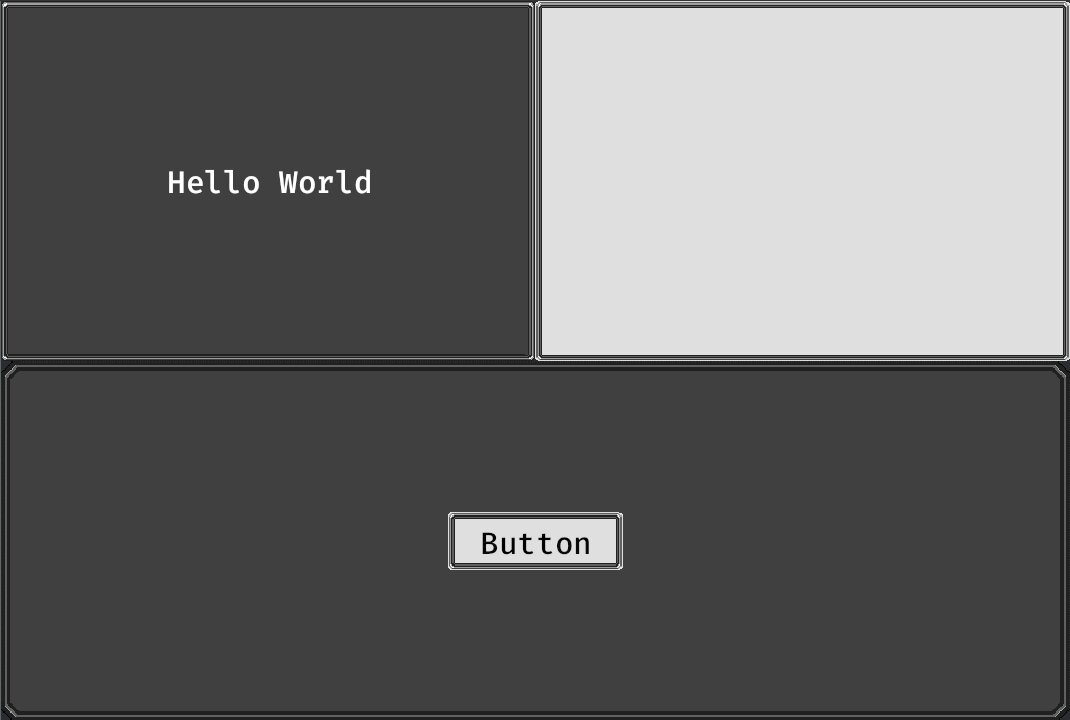
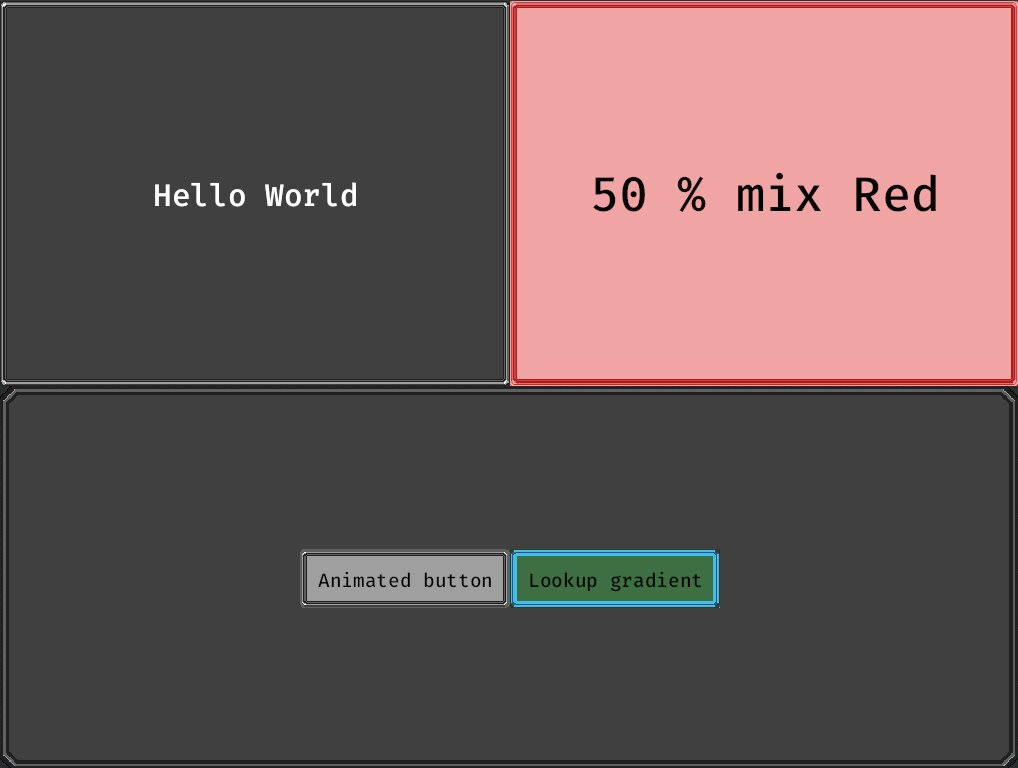
blend colors and lookup gradients added

diff --git a/examples/ui.rs b/examples/ui.rs
@@ -53,7 +53,9 @@ fn setup(mut cmd: Commands, server: Res<AssetServer>) {
                             align_items: AlignItems::Center,
                             ..default()
                         },
-                        nine_slice_texture: NineSliceTexture::from_image(server.load("panel.png")),
+                        nine_slice_texture: NineSliceUiTexture::from_image(
+                            server.load("panel.png"),
+                        ),
                         ..default()
                     })
                     .with_children(|builder| {
@@ -76,15 +78,34 @@ fn setup(mut cmd: Commands, server: Res<AssetServer>) {
                             width: Val::Percent(50.),
                             height: Val::Percent(100.),
                             display: Display::Flex,
+                            justify_content: JustifyContent::Center,
+                            align_items: AlignItems::Center,
                             ..default()
                         },
                         background_color: Color::BLACK.into(),
                         ..default()
                     })
-                    .insert(NineSliceTexture::from_slice(
-                        server.load("panel_atlas.png"),
-                        Rect::new(0., 0., 32., 32.),
-                    ));
+                    .insert(
+                        NineSliceUiTexture::from_slice(
+                            server.load("panel_atlas.png"),
+                            Rect::new(0., 0., 32., 32.),
+                        )
+                        .with_blend_color(Color::RED)
+                        .with_blend_mix(0.5),
+                    )
+                    .with_children(|builder| {
+                        builder.spawn(TextBundle {
+                            text: Text::from_section(
+                                "50 % mix Red",
+                                TextStyle {
+                                    font_size: 50.,
+                                    color: Color::BLACK,
+                                    ..default()
+                                },
+                            ),
+                            ..default()
+                        });
+                    });
             });
 
         builder
@@ -97,7 +118,7 @@ fn setup(mut cmd: Commands, server: Res<AssetServer>) {
                     align_items: AlignItems::Center,
                     ..default()
                 },
-                nine_slice_texture: NineSliceTexture::from_slice(
+                nine_slice_texture: NineSliceUiTexture::from_slice(
                     server.load("panel_atlas.png"),
                     Rect::new(32., 0., 32. + 48., 48.),
                 ),
@@ -107,7 +128,7 @@ fn setup(mut cmd: Commands, server: Res<AssetServer>) {
                 builder
                     .spawn(ButtonBundle {
                         style: Style {
-                            width: Val::Px(150.),
+                            width: Val::Px(180.),
                             height: Val::Px(50.),
                             display: Display::Flex,
                             justify_content: JustifyContent::Center,
@@ -117,16 +138,49 @@ fn setup(mut cmd: Commands, server: Res<AssetServer>) {
                         ..default()
                     })
                     .insert(Animation(0))
-                    .insert(NineSliceTexture::from_slice(
+                    .insert(NineSliceUiTexture::from_slice(
                         server.load("panel_animation.png"),
                         Rect::new(0., 0., 32., 32.),
                     ))
                     .with_children(|builder| {
                         builder.spawn(TextBundle {
                             text: Text::from_section(
-                                "Button",
+                                "Animated button",
                                 TextStyle {
-                                    font_size: 32.,
+                                    font_size: 20.,
+                                    color: Color::BLACK,
+                                    ..default()
+                                },
+                            ),
+                            ..default()
+                        });
+                    });
+                builder
+                    .spawn(ButtonBundle {
+                        style: Style {
+                            width: Val::Px(180.),
+                            height: Val::Px(50.),
+                            display: Display::Flex,
+                            justify_content: JustifyContent::Center,
+                            align_items: AlignItems::Center,
+                            ..default()
+                        },
+                        ..default()
+                    })
+                    .insert(
+                        NineSliceUiTexture::from_slice(
+                            server.load("panel_animation.png"),
+                            Rect::new(0., 0., 32., 32.),
+                        )
+                        .with_lookup_gradient(server.load("4-color-palette.png"))
+                        .with_gradient_mix(1.0),
+                    )
+                    .with_children(|builder| {
+                        builder.spawn(TextBundle {
+                            text: Text::from_section(
+                                "Lookup gradient",
+                                TextStyle {
+                                    font_size: 20.,
                                     color: Color::BLACK,
                                     ..default()
                                 },
@@ -139,15 +193,13 @@ fn setup(mut cmd: Commands, server: Res<AssetServer>) {
     cmd.spawn(Camera2dBundle::default());
 }
 
-fn super_simple_animation(mut query: Query<( &mut NineSliceTexture, &mut Animation )>) {
-    query.iter_mut().for_each(|( mut nine_slice, mut frame )| {
+fn super_simple_animation(mut query: Query<(&mut NineSliceUiTexture, &mut Animation)>) {
+    query.iter_mut().for_each(|(mut nine_slice, mut frame)| {
         match &mut nine_slice.bounds {
             Some(bounds) => {
-
                 bounds.min.x = frame.0 as f32 * 32.;
                 bounds.max.x = 32. + frame.0 as f32 * 32.;
                 frame.0 = (frame.0 + 1) % 4;
-
             }
             None => (),
         };

diff --git a/src/lib.rs b/src/lib.rs
@@ -8,7 +8,7 @@ use bevy::{
 };
 
 pub mod prelude {
-    pub use crate::{NineSliceMaterial, NineSliceTexture, NineSliceUiPlugin};
+    pub use crate::{NineSliceMaterial, NineSliceUiTexture, NineSliceUiPlugin};
 }
 
 pub struct NineSliceUiPlugin {
@@ -45,7 +45,7 @@ pub struct NineSliceUiMaterialBundle {
     /// In some cases these styles also affect how the node drawn/painted.
     pub style: Style,
     /// The nine slice component
-    pub nine_slice_texture: NineSliceTexture,
+    pub nine_slice_texture: NineSliceUiTexture,
     /// Whether this node should block interaction with lower nodes
     pub focus_policy: FocusPolicy,
     // pub background_color: BackgroundColor,
@@ -74,7 +74,7 @@ impl Default for NineSliceUiMaterialBundle {
         Self {
             node: Default::default(),
             style: Default::default(),
-            nine_slice_texture: NineSliceTexture::from_image(Handle::default()),
+            nine_slice_texture: NineSliceUiTexture::from_image(Handle::default()),
             focus_policy: Default::default(),
             transform: Default::default(),
             global_transform: Default::default(),
@@ -87,7 +87,7 @@ impl Default for NineSliceUiMaterialBundle {
 }
 
 fn sync_nine_slice(
-    nodes: Query<(&Node, &NineSliceTexture, &Handle<NineSliceMaterial>)>,
+    nodes: Query<(&Node, &NineSliceUiTexture, &Handle<NineSliceMaterial>)>,
     images: Res<Assets<Image>>,
     mut materials: ResMut<Assets<NineSliceMaterial>>,
 ) {
@@ -106,16 +106,23 @@ fn sync_nine_slice(
             mat.bounds.y = bounds.min.y;
             mat.bounds.z = bounds.max.x;
             mat.bounds.w = bounds.max.y;
+            mat.blend_color = nine_slice.blend_color.into();
+            mat.mix.x = nine_slice.blend_mix;
+            mat.mix.y = nine_slice.gradient_mix;
 
             if mat.atlas != nine_slice.atlas {
                 mat.atlas = nine_slice.atlas.clone();
+            }
+
+            if mat.lookup_gradient != nine_slice.gradient {
+                mat.lookup_gradient = nine_slice.gradient.clone();
             }
         }
     });
 }
 
 fn spawn_nine_slice(
-    nodes: Query<(Entity, &NineSliceTexture, &Node), Without<Handle<NineSliceMaterial>>>,
+    nodes: Query<(Entity, &NineSliceUiTexture, &Node), Without<Handle<NineSliceMaterial>>>,
     images: Res<Assets<Image>>,
     mut cmd: Commands,
     mut materials: ResMut<Assets<NineSliceMaterial>>,
@@ -134,6 +141,9 @@ fn spawn_nine_slice(
             atlas: nine_slice.atlas.clone(),
             surface_size: node.size().extend(0.).extend(0.),
             bounds: Vec4::new(bounds.min.x, bounds.min.y, bounds.max.x, bounds.max.y),
+            blend_color: nine_slice.blend_color.into(),
+            lookup_gradient: nine_slice.gradient.clone(),
+            mix: Vec4::new(nine_slice.blend_mix, nine_slice.gradient_mix, 0., 0.),
         });
 
         cmd.entity(entity)
@@ -142,18 +152,32 @@ fn spawn_nine_slice(
     });
 }
 
+/// A component that describes a nine slice texture
 #[derive(Component, Debug, Clone)]
-pub struct NineSliceTexture {
+pub struct NineSliceUiTexture {
+    /// The atlas to use for the nine slice
     pub atlas: Handle<Image>,
+    /// The bounds of the nine slice in the atlas
     pub bounds: Option<Rect>,
+    /// The color to blend the nine slice with, alpha is used for blending
+    pub blend_color: Color,
+    pub blend_mix: f32,
+    /// A 1D texture to use as color lookup, the grayscale value of the original color is used as UV
+    /// dark to light, left to right
+    pub gradient: Handle<Image>,
+    pub gradient_mix: f32,
 }
 
-impl NineSliceTexture {
+impl NineSliceUiTexture {
     /// Create a new NineSliceTexture from an image
     pub fn from_image(image: Handle<Image>) -> Self {
         Self {
             atlas: image,
             bounds: None,
+            blend_color: Color::default(),
+            blend_mix: 0.0,
+            gradient: Handle::default(),
+            gradient_mix: 0.0,
         }
     }
 
@@ -162,7 +186,31 @@ impl NineSliceTexture {
         Self {
             atlas,
             bounds: Some(bounds),
+            blend_color: Color::default(),
+            blend_mix: 0.0,
+            gradient: Handle::default(),
+            gradient_mix: 0.0,
         }
+    }
+
+    pub fn with_lookup_gradient(mut self, gradiant: Handle<Image>) -> Self {
+        self.gradient = gradiant;
+        self
+    }
+
+    pub fn with_blend_mix(mut self, blend: f32) -> Self {
+        self.blend_mix = blend;
+        self
+    }
+
+    pub fn with_gradient_mix(mut self, blend: f32) -> Self {
+        self.gradient_mix = blend;
+        self
+    }
+
+    pub fn with_blend_color(mut self, color: Color) -> Self {
+        self.blend_color = color;
+        self
     }
 }
 
@@ -175,6 +223,13 @@ pub struct NineSliceMaterial {
     surface_size: Vec4,
     #[uniform(3)]
     bounds: Vec4,
+    #[uniform(4)]
+    blend_color: Vec4,
+    #[texture(5)]
+    #[sampler(6)]
+    lookup_gradient: Handle<Image>,
+    #[uniform(7)]
+    mix: Vec4,
 }
 
 impl UiMaterial for NineSliceMaterial {

diff --git a/README.md b/README.md
@@ -2,7 +2,14 @@
 
 Quick and easy auto-scaling nine slice/patch material for bevy ui nodes implemented as Fragment Shader.
 
-**Now WASM compatible!**
+### Features
+
+-   Sprite sheet animation support
+-   Wasm support
+-   Blend colors / tinting
+-   Color lookup gradients
+
+Making hover effects a breeze.
 
 ```bash
 cargo add bevy_nine_slice_ui
@@ -12,13 +19,15 @@ cargo add bevy_nine_slice_ui
 
 It's a single component.
 
+The plugin as has a `sync_rate_ms` parameter, which is the minimum time between updates in milliseconds. This is to prevent the material from updating too often. The default is 100ms.
+
 ```rust
 app.add_plugin(NineSliceUiPlugin::default());
 ```
 
 ```rust
 fn spawn_ui(mut cmd: Commands, server: Res<AssetServer>) {
-    commands.spawn(NineSliceMaterialBundle {
+    commands.spawn(NineSliceUiMaterialBundle {
         style: Style {
             width: Val::Percent(100.),
             height: Val::Percent(50.),
@@ -62,10 +71,31 @@ the background color component broke the material. The background color componen
 .insert(NineSliceTexture::from_slice(
     server.load("panel_atlas.png"),
     Rect::new(0., 0., 32., 32.),
-))
+));
+
 ```
 
-Check out the example
+## Modify the texture component
+
+You can modify the texture component to change the texture or the texture bounds. This enables simple sheet style animations.
+
+```rust
+// add a blend color
+NineSliceTexture::from_image(server.load("panel_atlas.png"))
+    .with_blend_color(Color::RED)
+    .with_blend_mix(0.5);
+
+
+// or why not a whole palatte gradient?
+// A 1D texture to use as color lookup, the grayscale value of the original color is used as UV
+// dark to light, left to right
+NineSliceTexture::from_image(server.load("panel_atlas.png"))
+    .with_lookup_gradient(server.load("4-color-palette.png"))
+    .with_gradient_mix(1.0);
+
+```
+
+Check out the example, there is everything you need to know.
 
 ```rust
 cargo run --example ui
